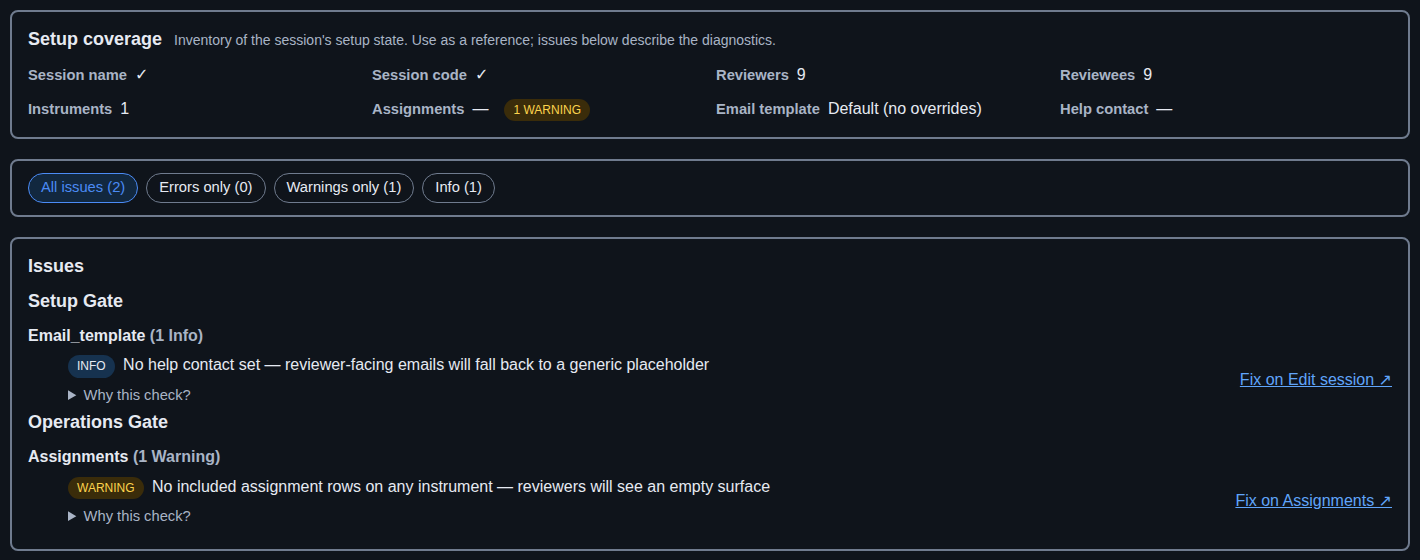
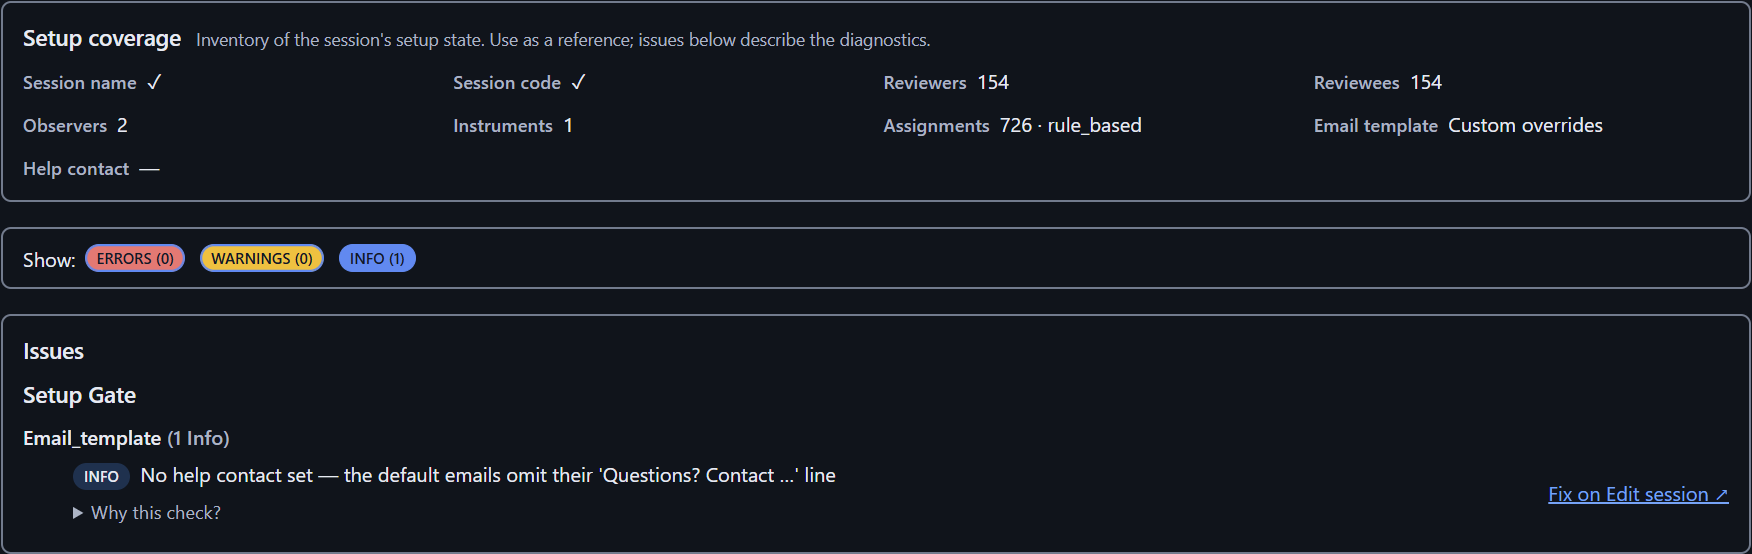
Guide: retake the Validate screencaps with the severity chips
The author's retake (light and dark) of the Validate figure, which
showed the retired four-chip strip after #3078. Same crop: Setup
coverage, the chip strip, the Issues card.

Claude-Session: https://claude.ai/code/session_0116Ns1HgCKeKutgZT3Tje64

Changed region(s): [[0.0, 0.0, 1.0, 1.0]]

diff --git a/guide/things_to_check_in_browser.md b/guide/things_to_check_in_browser.md
@@ -301,6 +301,6 @@ with the last section it covers.
   banner stays, and the page scrolls to it rather than to the chips.
 - [ ] **Dark mode and keyboard.** In dark, on chips are bright with dark
   text; Tab to a chip shows a focus ring, Space toggles it.
-- [ ] **Guide screencap.** About → Guide, the Validate figure still shows
-  the old four chips; retake `validate-page.png` and its dark twin when
-  convenient.
+- [ ] **Guide screencap.** About → Guide, the Validate figure shows the
+  three chips (`Show: ERRORS (0) WARNINGS (0) INFO (1)`), in the light
+  theme and, switched to dark, in the dark one.
